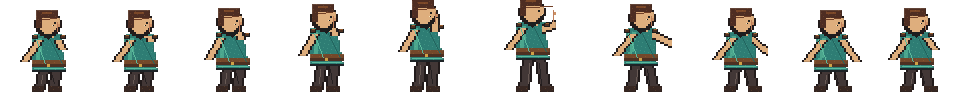
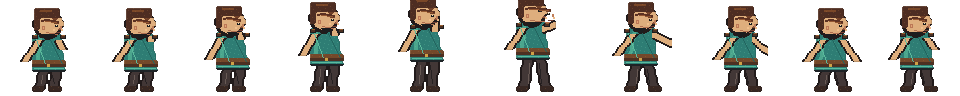
Refine cultists and hero facial detail

diff --git a/tools/build_pixel_assets.py b/tools/build_pixel_assets.py
@@ -516,12 +516,15 @@ def hero_frame(state, frame, total):
     neck = (shoulder_center, body_y - 10)
     pygame.draw.rect(surface, skin, (neck[0] - 2, neck[1] - 2, 5, 5))
     head = (shoulder_center, body_y - 15)
-    pygame.draw.circle(surface, (34, 27, 27), (head[0], head[1] + 1), 7)
-    pygame.draw.circle(surface, skin, head, 6)
-    pygame.draw.rect(surface, hair, (head[0] - 6, head[1] - 6, 11, 4))
-    pygame.draw.rect(surface, hair, (head[0] - 6, head[1] - 3, 3, 6))
-    pygame.draw.rect(surface, hair_light, (head[0] - 3, head[1] - 5, 5, 1))
-    pygame.draw.rect(surface, (33, 31, 31), (head[0] + 3, head[1], 1, 1))
+    pygame.draw.circle(surface, (34, 27, 27), (head[0], head[1] + 1), 8)
+    pygame.draw.circle(surface, skin, head, 7)
+    pygame.draw.rect(surface, skin, (head[0] + 5, head[1], 3, 2))
+    pygame.draw.rect(surface, hair, (head[0] - 7, head[1] - 7, 13, 5))
+    pygame.draw.rect(surface, hair, (head[0] - 7, head[1] - 4, 3, 8))
+    pygame.draw.rect(surface, hair_light, (head[0] - 4, head[1] - 6, 6, 1))
+    pygame.draw.rect(surface, (112, 63, 39), (head[0] + 2, head[1] - 2, 3, 1))
+    pygame.draw.rect(surface, (33, 31, 31), (head[0] + 3, head[1], 2, 1))
+    pygame.draw.rect(surface, (135, 78, 57), (head[0] + 5, head[1] + 3, 2, 1))
     if state == "victory":
         pygame.draw.rect(surface, (240, 193, 61), (head[0] + 5, head[1] - 2, 2, 2))
     return surface
@@ -534,7 +537,7 @@ def refine_hero_frame(low, state):
     extra grid space adds finer edge lighting and material texture before the
     frame is shown. The exact 2x scale avoids uneven limb widths between poses.
     """
-    refined = pygame.transform.scale(low, (96, 96))
+    refined = pygame.transform.scale2x(low)
     source = refined.copy()
     width, height = refined.get_size()
 
@@ -612,14 +615,30 @@ def refine_hero_frame(low, state):
                 head_right = max(point[0] for point in head_points)
                 head_top = min(point[1] for point in head_points)
                 head_bottom = max(point[1] for point in head_points)
-                # Sub-pixel facial planes: temple shadow, ear, brow and eye glint.
-                pygame.draw.line(refined, (190, 126, 91), (head_right - 2, head_top + 4), (head_right - 2, head_bottom - 2), 1)
-                pygame.draw.rect(refined, (205, 145, 101), (head_right - 1, head_top + 6, 2, 3))
-                eye_x = min(head_right - 3, (head_left + head_right) // 2 + 3)
-                eye_y = head_top + max(4, (head_bottom - head_top) // 2)
-                pygame.draw.rect(refined, (24, 25, 27), (eye_x, eye_y, 2, 1))
-                pygame.draw.rect(refined, (244, 222, 181), (eye_x, eye_y, 1, 1))
-                pygame.draw.line(refined, (112, 63, 39), (head_left + 2, head_top + 1), (head_right - 3, head_top), 1)
+                face_height = head_bottom - head_top + 1
+                eye_y = head_top + max(7, round(face_height * .45))
+                eye_x = max(head_left + 7, head_right - 8)
+                # A consistent profile across every pose: stepped hairline,
+                # eyebrow, eye, ear, nose, mouth, jaw plane and cheek light.
+                pygame.draw.lines(refined, (92, 49, 34), False, [
+                    (head_left + 3, head_top + 2),
+                    (head_left + 8, head_top + 1),
+                    (head_right - 5, head_top + 3),
+                ], 2)
+                pygame.draw.line(refined, (146, 86, 49), (head_left + 7, head_top + 3), (head_right - 7, head_top + 4), 1)
+                pygame.draw.rect(refined, (112, 63, 39), (eye_x - 1, eye_y - 3, 5, 1))
+                pygame.draw.rect(refined, (24, 25, 27), (eye_x, eye_y - 1, 3, 2))
+                pygame.draw.rect(refined, (244, 222, 181), (eye_x + 1, eye_y - 1, 1, 1))
+                ear_x = head_left + 4
+                pygame.draw.rect(refined, (187, 119, 86), (ear_x, eye_y, 3, 4))
+                pygame.draw.rect(refined, (226, 166, 116), (ear_x + 1, eye_y + 1, 1, 2))
+                nose_x = head_right - 3
+                pygame.draw.line(refined, (190, 126, 91), (nose_x, eye_y), (nose_x + 1, eye_y + 4), 2)
+                pygame.draw.rect(refined, (237, 188, 137), (nose_x + 1, eye_y + 3, 2, 2))
+                mouth_y = min(head_bottom - 3, eye_y + 7)
+                pygame.draw.line(refined, (117, 65, 54), (head_right - 7, mouth_y), (head_right - 3, mouth_y), 1)
+                pygame.draw.line(refined, (178, 111, 80), (head_left + 8, head_bottom - 3), (head_right - 6, head_bottom - 1), 1)
+                pygame.draw.rect(refined, (241, 192, 141), (eye_x - 2, eye_y + 3, 2, 2))
 
         if trouser_points:
             leg_top = min(point[1] for point in trouser_points)

diff --git a/sprites.py b/sprites.py
@@ -60,7 +60,7 @@ class CharacterSprites:
             for state in ("idle", "attack", "defeat"):
                 self.frames[("enemy", state)] = self.load_folder(root / "enemy" / state)
         self._load_cc0_enemies(root / "enemies_cc0")
-        self._load_arena_enemy_overrides()
+        self._enhance_narrow_humanoids()
         self._load_original_enemies(root / "enemies_original")
         self._normalize_enemy_canvases()
 
@@ -137,46 +137,27 @@ class CharacterSprites:
                 if frames:
                     self.enemy_frames[(enemy_id, state)] = frames
 
-    def _load_arena_enemy_overrides(self):
-        """Give the Crypt Slinger a complete higher-resolution silhouette."""
-        idle = self.frames.get(("enemy", "idle"), [])
-        attack = self.frames.get(("enemy", "attack"), [])
-        if not idle or not attack:
-            return
-
-        shared_bounds = pygame.Rect(0, 0, 0, 0)
-        for frame in idle + attack:
-            bounds = frame.get_bounding_rect(min_alpha=8)
-            if bounds.width and bounds.height:
-                shared_bounds = bounds if not shared_bounds.width else shared_bounds.union(bounds)
-        shared_bounds.inflate_ip(6, 6)
-        shared_bounds = shared_bounds.clip(idle[0].get_rect())
-
-        def crypt_palette(frame):
-            recolored = frame.subsurface(shared_bounds).copy()
-            for y in range(recolored.get_height()):
-                for x in range(recolored.get_width()):
-                    red, green, blue, alpha = recolored.get_at((x, y))
-                    if alpha < 8 or max(red, green, blue) - min(red, green, blue) > 24:
-                        continue
-                    light = max(red, green, blue)
-                    if light < 72:
-                        continue
-                    ratio = (light - 72) / 183
-                    recolored.set_at((x, y), (
-                        round(64 + 148 * ratio),
-                        round(82 + 144 * ratio),
-                        round(132 + 123 * ratio),
-                        alpha,
-                    ))
-            return recolored
-
-        idle_frames = [crypt_palette(frame) for frame in idle]
-        attack_frames = [crypt_palette(frame) for frame in attack]
-        self.enemy_frames[("crypt_slinger", "idle")] = idle_frames
-        self.enemy_frames[("crypt_slinger", "run")] = idle_frames
-        self.enemy_frames[("crypt_slinger", "attack")] = attack_frames
-        self.enemy_frames[("crypt_slinger", "defeat")] = idle_frames
+    def _enhance_narrow_humanoids(self):
+        """Complete the cultist silhouettes without replacing their artwork."""
+        for enemy_id in ("crypt_slinger", "void_acolyte"):
+            run_frames = self.enemy_frames.get((enemy_id, "run"), [])
+            for state in ("idle", "run", "attack", "defeat"):
+                frames = self.enemy_frames.get((enemy_id, state), [])
+                # The source pack has no separate attack sheet. Reuse its full
+                # walk cycle rather than freezing the character on one narrow
+                # pose; the battle lunge still supplies the attack direction.
+                if state == "attack" and len(frames) <= 1 and run_frames:
+                    frames = run_frames
+                enhanced = []
+                for frame in frames:
+                    detailed = pygame.transform.scale2x(frame)
+                    detailed = pygame.transform.scale(
+                        detailed,
+                        (round(detailed.get_width() * 1.22), detailed.get_height()),
+                    )
+                    enhanced.append(detailed)
+                if enhanced:
+                    self.enemy_frames[(enemy_id, state)] = enhanced
 
     def _load_original_enemies(self, root):
         """Override selected CC0 actors with higher-resolution Bonebound sheets."""
